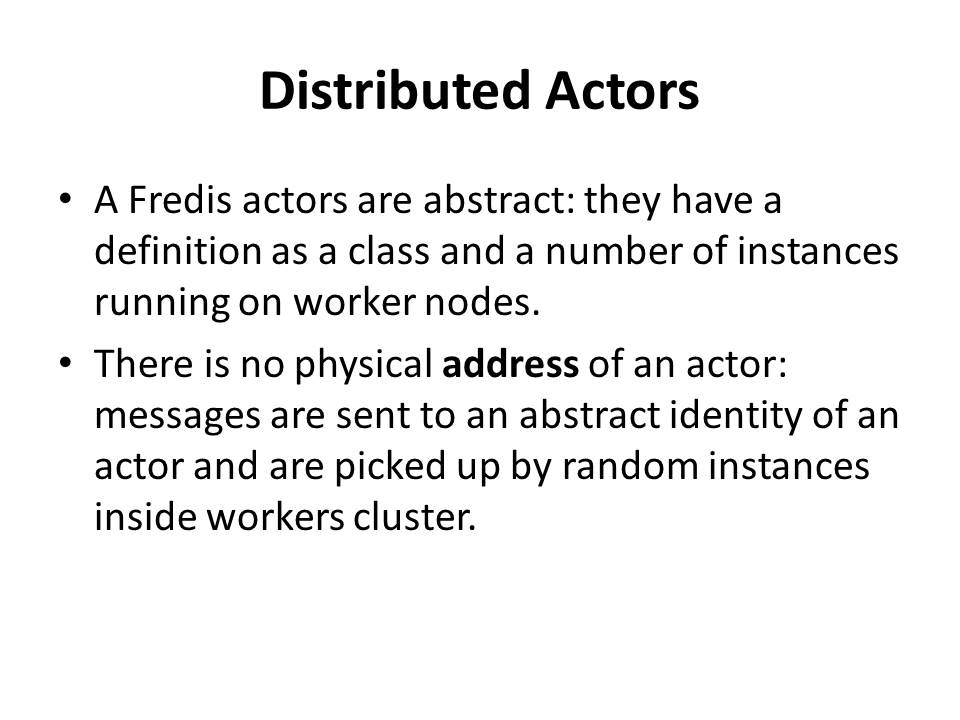
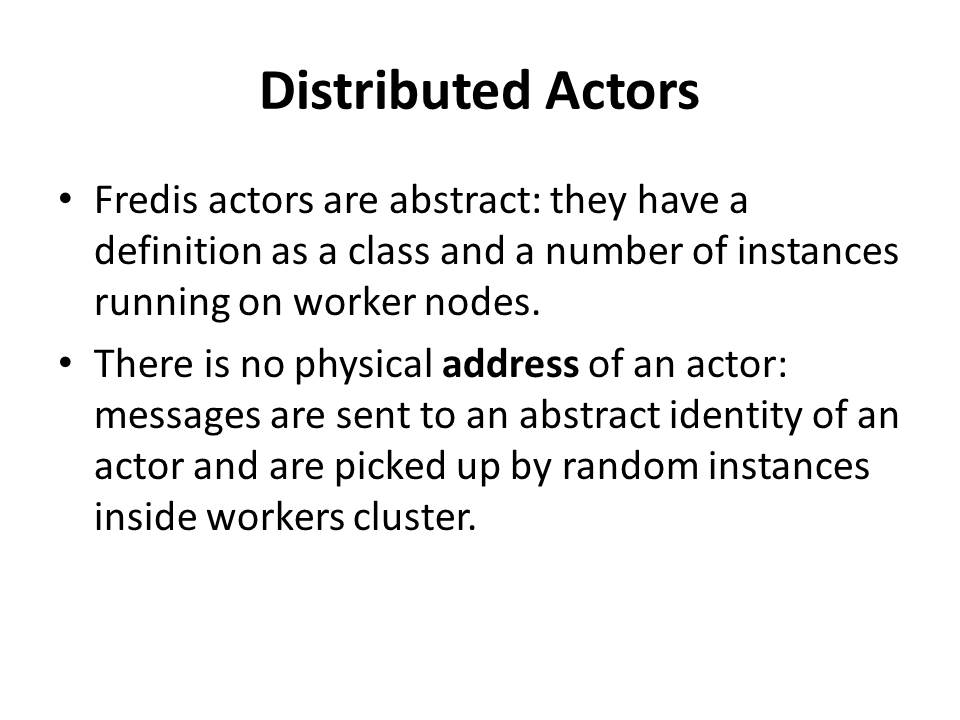
Add pricing slide and fix some typos

Changed region(s): [[0.0938, 0.2444, 0.8125, 0.3056]]

diff --git a/README.md b/README.md
@@ -31,8 +31,8 @@ Fredis will grow as well and will become mature and robust for its stated tasks 
 client based on excellent [Stackexchange.Redis](https://github.com/StackExchange/StackExchange.Redis) 
 library. The typed Redis client has strong opinion about keys schema inside Redis and uses a concept of
 root/owner objects to store dependent objects/collections. POCO/database persistor base implementation
-wraps around ServiceStack.ORMLite.v3, however there is no binary dependency and any ORM could be plugged 
-in. Blob persistor saves large data objects to files or S3 (TODO).
+wraps around ServiceStack.ORMLite, however there is no binary dependency and any ORM could be plugged 
+in. Blob persistor saves large data objects to files or S3.
 
 
 Process-oriented programming
@@ -57,6 +57,8 @@ Slides for library intro at HS
 ![Slide 10](https://raw.githubusercontent.com/buybackoff/Fredis/master/docs/files/img/Slides/Slide10.JPG)
 ![Slide 11](https://raw.githubusercontent.com/buybackoff/Fredis/master/docs/files/img/Slides/Slide11.JPG)
 ![Slide 12](https://raw.githubusercontent.com/buybackoff/Fredis/master/docs/files/img/Slides/Slide12.JPG)
+![Slide 13](https://raw.githubusercontent.com/buybackoff/Fredis/master/docs/files/img/Slides/Slide13.JPG)
+
 
 Install & Usage
 ----------------------
@@ -85,5 +87,5 @@ This software is distributed under the License is distributed on an "AS IS" BASI
 WITHOUT WARRANTIES OR CONDITIONS OF ANY KIND, either express or implied.
 
 StackExchange.Redis is licensed separately; see https://github.com/StackExchange/StackExchange.Redis/blob/master/LICENSE.
-ServiceStackV3 is licensed separately; see https://github.com/ServiceStack/ServiceStack/blob/v3/LICENSE.
+ServiceStackV3 is licensed separately; see https://github.com/ServiceStack/ServiceStack/blob/master/license.txt.
 Redis is licensed separately; see http://redis.io/topics/license. 
